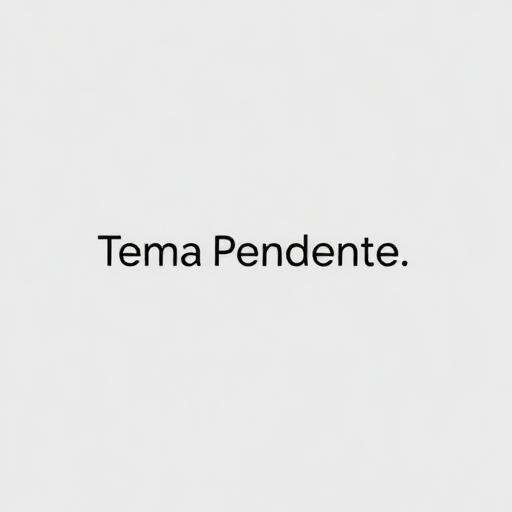
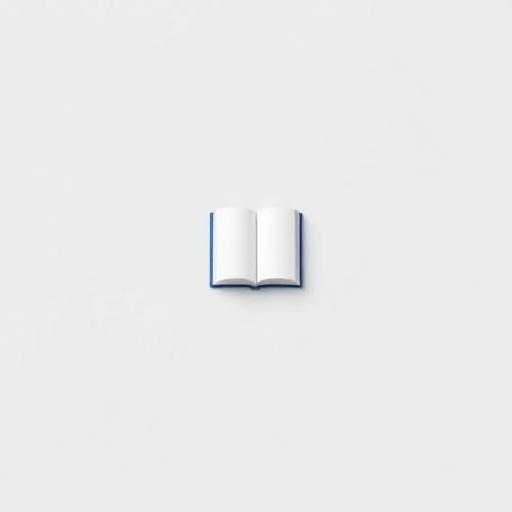
Fix: Render exemplary redactions correctly
The "Redações Exemplares" page for the corrector role was not displaying cover images correctly. This commit ensures that the `UnifiedCard` component correctly renders cover images for exemplary redactions, using the `resolveExemplarCover` function.

Changed region(s): [[0.1875, 0.4062, 0.8125, 0.5938]]

diff --git a/src/pages/corretor/CorretorRedacoesExemplar.tsx b/src/pages/corretor/CorretorRedacoesExemplar.tsx
@@ -22,7 +22,7 @@ const CorretorRedacoesExemplar = () => {
         // Buscar redações exemplares da tabela 'redacoes' (cadastradas pelo administrador)
         const { data, error } = await supabase
           .from('redacoes')
-          .select('*')
+          .select('id, frase_tematica, eixo_tematico, conteudo, data_envio, nota_total, pdf_url, dica_de_escrita')
           .order('nota_total', { ascending: false });
 
         if (error) {
@@ -104,7 +104,8 @@ const CorretorRedacoesExemplar = () => {
         ) : (
           <div className="space-y-4">
             {redacoesExemplares?.map((redacao: any) => {
-              const coverUrl = resolveExemplarCover(redacao);
+              // Redações exemplares usam placeholder padrão pois não têm capas específicas
+              const coverUrl = '/src/assets/tema-cover-placeholder.png';
               const badges: Array<{ label: string; tone: 'primary' | 'neutral' | 'success' | 'warning' }> = [
                 { label: 'Redação Modelo', tone: 'warning' }
               ];

diff --git a/src/utils/coverUtils.ts b/src/utils/coverUtils.ts
@@ -1,6 +1,6 @@
 import { supabase } from "@/integrations/supabase/client";
 
-const PLACEHOLDER_URL = '/placeholders/tema-cover.png';
+const PLACEHOLDER_URL = '/src/assets/tema-cover-placeholder.png';
 
 // Helper to get public URL from Supabase storage
 function storageURL(path?: string | null): string | null {
@@ -29,9 +29,10 @@ export function resolveSimuladoCover(simulado: any): string {
   return resolveCover(tema?.cover_file_path, tema?.cover_url);
 }
 
-// Exemplares: capa própria
+// Exemplares: como são redações modelo, usam placeholder padrão
 export function resolveExemplarCover(exemplar: any): string {
-  return resolveCover(exemplar?.cover_file_path, exemplar?.cover_url);
+  // Redações exemplares sempre usam o placeholder padrão
+  return PLACEHOLDER_URL;
 }
 
 // Helper para capitalizar primeira letra

diff --git a/src/components/ui/unified-card.tsx b/src/components/ui/unified-card.tsx
@@ -38,7 +38,7 @@ interface UnifiedCardProps {
 
 export function UnifiedCard({ variant, item }: UnifiedCardProps) {
   const [broken, setBroken] = useState(false);
-  const imgSrc = useMemo(() => (broken ? '/placeholders/tema-cover.png' : item.coverUrl || '/placeholders/tema-cover.png'), [broken, item.coverUrl]);
+  const imgSrc = useMemo(() => (broken ? '/src/assets/tema-cover-placeholder.png' : item.coverUrl || '/src/assets/tema-cover-placeholder.png'), [broken, item.coverUrl]);
 
   const showActions = variant === "admin" && item.actions && item.actions.length > 0;
   const showCta = (variant === "corretor" || variant === "aluno") && item.cta;
